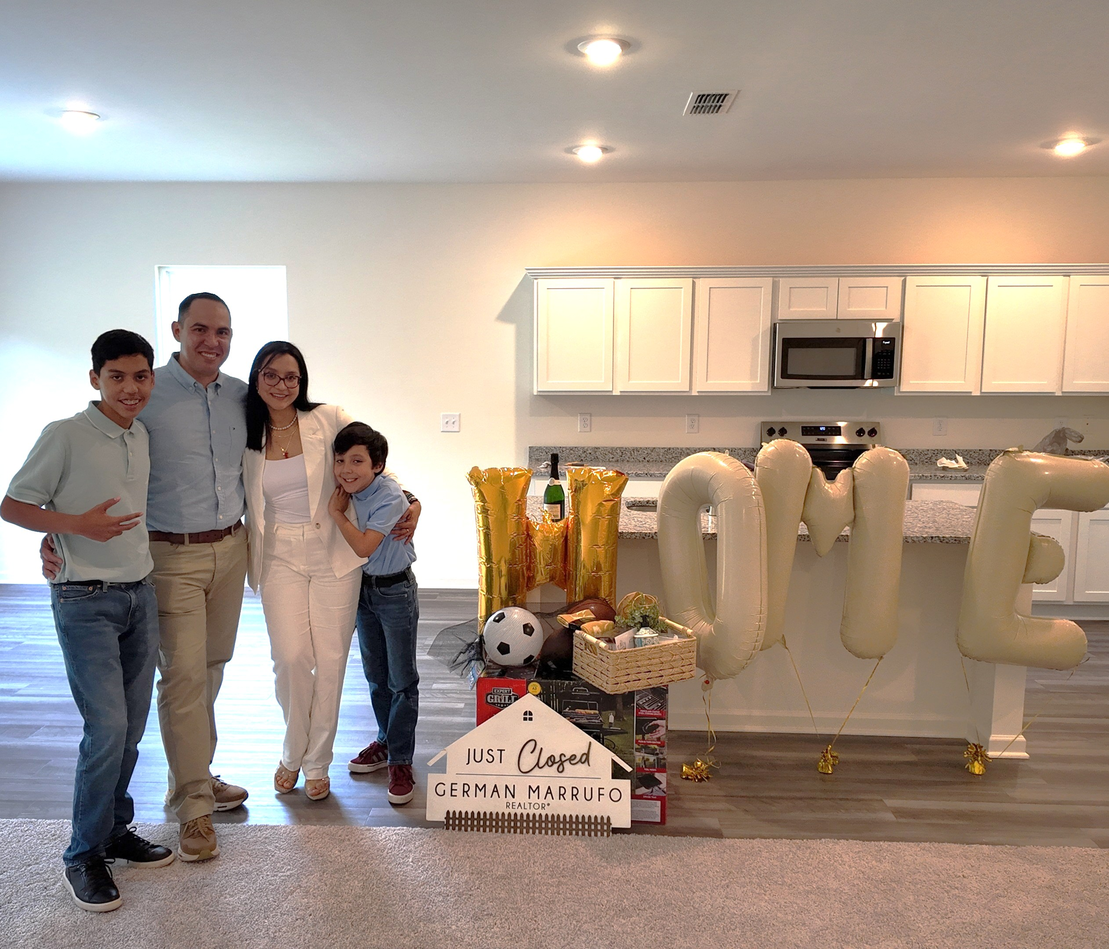
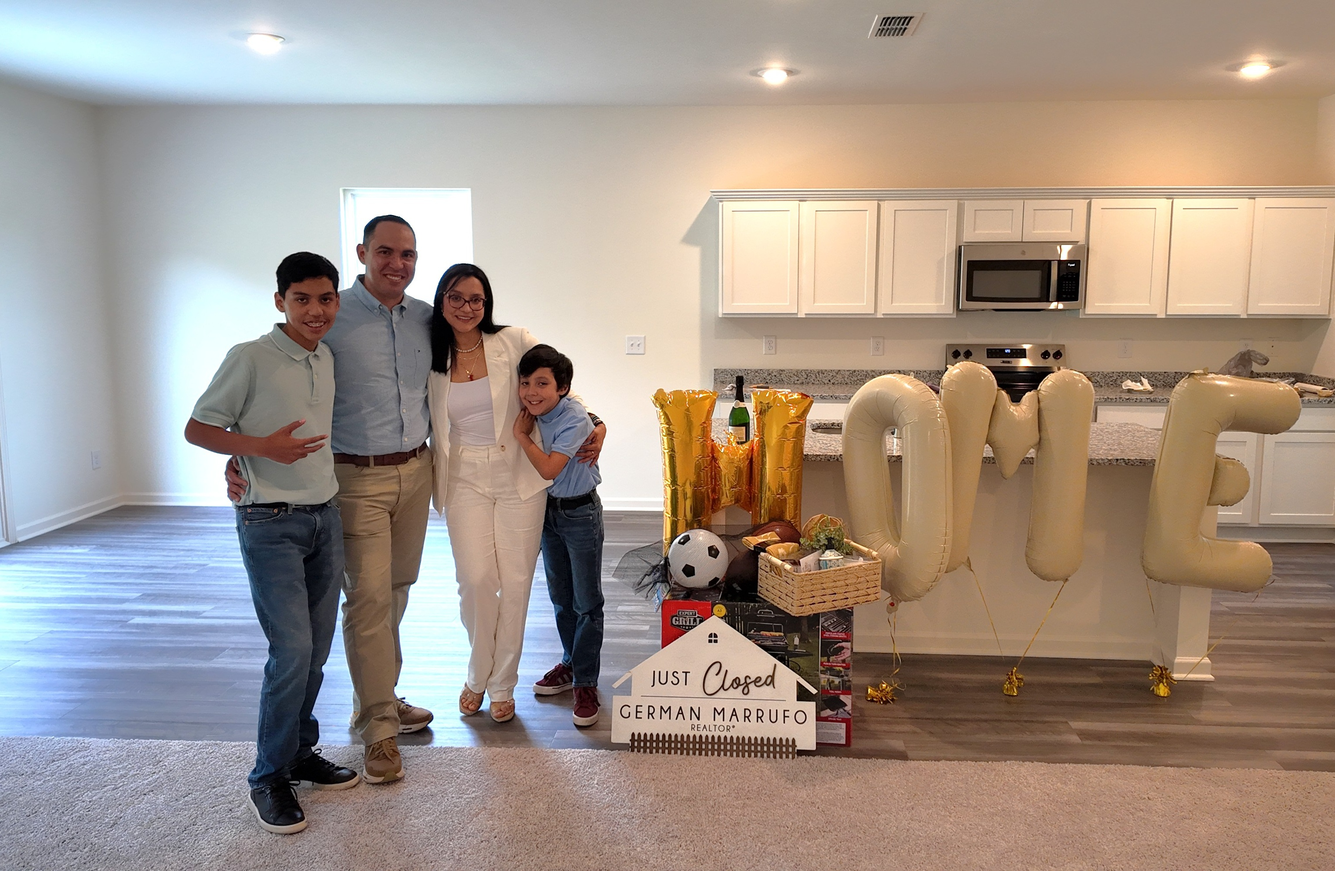
ajuste seccion hero regreso cambio tamaño img

diff --git a/js/main.js b/js/main.js
@@ -43,95 +43,10 @@
     // Header carousel
     $(".header-carousel").owlCarousel({
         autoplay: true,
-        autoplayTimeout: 3000,
         smartSpeed: 1000,
         loop: true,
         dots: true,
-        items: 1,
-        nav: false,
-        animateOut: 'fadeOut',
-        animateIn: 'fadeIn',
-        mouseDrag: false,
-        touchDrag: false,
-        pullDrag: false,
-        freeDrag: false,
-        margin: 0,
-        stagePadding: 0,
-        merge: false,
-        mergeFit: true,
-        autoWidth: false,
-        startPosition: 0,
-        URLhashListener: false,
-        navText: ['', ''],
-        responsive: {
-            0: {
-                items: 1,
-                dots: true,
-                autoplay: true,
-                autoplayTimeout: 3000,
-                mouseDrag: false,
-                touchDrag: false
-            },
-            768: {
-                items: 1,
-                dots: true,
-                autoplay: true,
-                autoplayTimeout: 3000,
-                mouseDrag: false,
-                touchDrag: false
-            },
-            1024: {
-                items: 1,
-                dots: true,
-                autoplay: true,
-                autoplayTimeout: 3000,
-                mouseDrag: false,
-                touchDrag: false
-            }
-        }
-    });
-
-    // Force carousel initialization on mobile
-    $(document).ready(function() {
-        // Wait for everything to load
-        setTimeout(function() {
-            // Destroy and recreate carousel on mobile
-            if ($(window).width() <= 991) {
-                $('.header-carousel').trigger('destroy.owl.carousel');
-                $('.header-carousel').owlCarousel({
-                    autoplay: true,
-                    autoplayTimeout: 3000,
-                    smartSpeed: 1000,
-                    loop: true,
-                    dots: true,
-                    items: 1,
-                    nav: false,
-                    animateOut: 'fadeOut',
-                    animateIn: 'fadeIn',
-                    mouseDrag: false,
-                    touchDrag: false,
-                    pullDrag: false,
-                    freeDrag: false,
-                    margin: 0,
-                    stagePadding: 0,
-                    merge: false,
-                    mergeFit: true,
-                    autoWidth: false,
-                    startPosition: 0,
-                    URLhashListener: false,
-                    navText: ['', '']
-                });
-            }
-        }, 1000);
-    });
-
-    // Additional mobile carousel fix
-    $(window).on('load', function() {
-        setTimeout(function() {
-            if ($(window).width() <= 991) {
-                $('.header-carousel').trigger('refresh.owl.carousel');
-            }
-        }, 500);
+        items: 1
     });
 
 

diff --git a/css/style.css b/css/style.css
@@ -279,71 +279,6 @@ html {
     background: var(--bs-white);
 }
 
-/* Mobile carousel adjustments */
-@media (max-width: 991px) {
-    .header-carousel {
-        padding: 0 !important;
-        margin: 0 !important;
-    }
-    
-    .header-carousel::before {
-        display: none !important;
-    }
-    
-    .header-carousel .owl-dots {
-        right: 20px;
-        bottom: 20px;
-        top: auto;
-        transform: none;
-    }
-    
-    .header-carousel .owl-stage-outer {
-        overflow: hidden !important;
-        border-radius: 8px;
-    }
-    
-    .header-carousel .owl-stage {
-        display: flex !important;
-    }
-    
-    .header-carousel .owl-item {
-        width: 100% !important;
-        flex-shrink: 0 !important;
-        opacity: 1 !important;
-    }
-    
-    .header-carousel .owl-item.active {
-        opacity: 1 !important;
-    }
-    
-    .header-carousel img {
-        width: 100% !important;
-        height: auto !important;
-        max-height: 350px !important;
-        object-fit: cover !important;
-        display: block !important;
-    }
-}
-
-@media (max-width: 576px) {
-    .header-carousel .owl-dots {
-        right: 15px;
-        bottom: 15px;
-    }
-    
-    .header-carousel .owl-dot {
-        width: 12px;
-        height: 12px;
-    }
-    
-    .header-carousel .owl-dot.active {
-        height: 24px;
-    }
-    
-    .header-carousel img {
-        max-height: 250px !important;
-    }
-}
 
 /* Hero section responsive adjustments */
 @media (max-width: 768px) {

diff --git a/index.html b/index.html
@@ -75,13 +75,13 @@
         <div class="container py-5">
             <div class="row g-5 align-items-center mb-5">
                 <div class="col-lg-6">
-                    <h1 class="display-1 mb-4 animated slideInRight hero-title">5 TE AYUDO A CUMPLIR EL SUE<span class="letter-n">Ñ</span>O DE COMPRAR TU <span class="text-primary">HOGAR</span></h1>
+                    <h1 class="display-1 mb-4 animated slideInRight hero-title">TE AYUDO A CUMPLIR EL SUE<span class="letter-n">Ñ</span>O DE COMPRAR TU <span class="text-primary">HOGAR</span></h1>
                 </div>
                 <div class="col-lg-6">
                     <div class="owl-carousel header-carousel animated fadeIn">
-                        <img class="img-fluid" src="img/hero-slider-11.JPG" alt="">
-                        <img class="img-fluid" src="img/hero-slider-22.JPG" alt="">
-                        <img class="img-fluid" src="img/hero-slider-44.png" alt="">
+                        <img class="img-fluid" src="img/hero-slider-111.jpg" alt="">
+                        <img class="img-fluid" src="img/hero-slider-22.jpg" alt="">
+                        <img class="img-fluid" src="img/hero-slider-44.jpg" alt="">
                     </div>
                 </div>
             </div>
